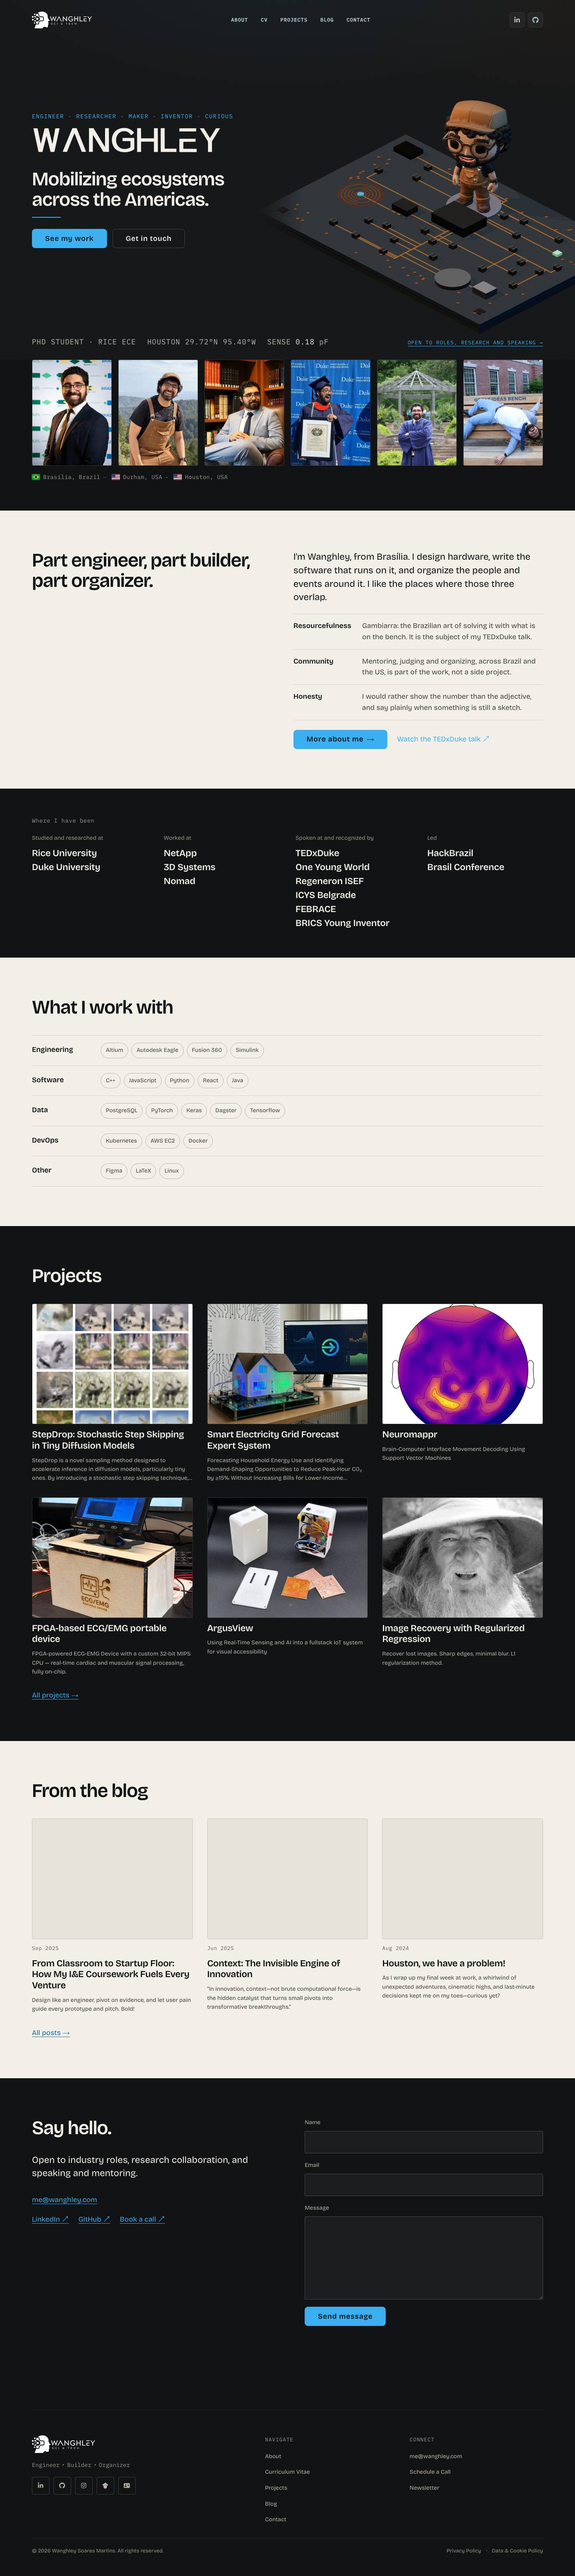
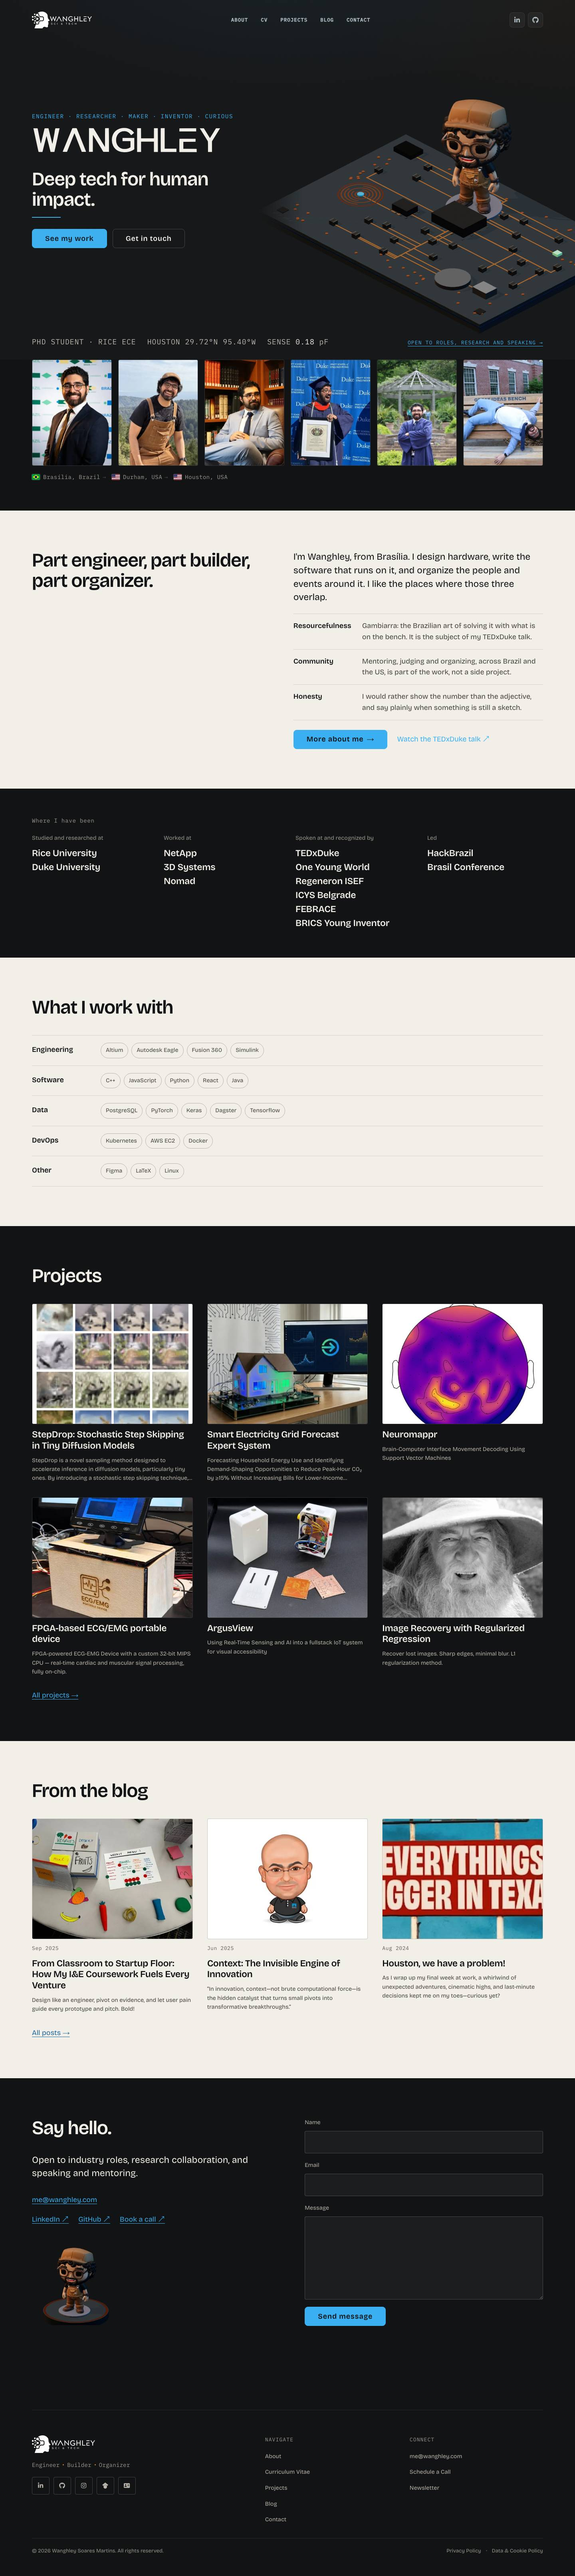
docs: page kit in the styleguide, capture script fixes, Phase 1 record
The styleguide shows every kit piece on a dark and a light band. The
capture script now walks slowly so scroll-reveal content and lazy images
finish, and waits until the page is back at the top, so the fixed navbar
and skip link are not photographed in the wrong place. The home baseline
was re-shot with the slow walk. docs/audit/phase-7.md records the result.

diff --git a/src/pages/styleguide.js b/src/pages/styleguide.js
@@ -1,6 +1,7 @@
 import React from 'react';
 import { Helmet } from 'react-helmet-async';
 import rubrica from '../assets/handwriting/rubrica.png';
+import { PageHeader, SilkRule, SpecTable, Prose, BenchCard, BenchCards } from '../components/bench';
 import './css/styleguide.css';
 
 const COLORS = [
@@ -184,6 +185,79 @@ export default function Styleguide() {
           <li>--stagger 48ms · Nothing bounces except the Funko</li>
           <li>Reduced motion: animations off globally, and each set piece gets a designed still</li>
         </ul>
+      </section>
+
+      <section className="sg__section bench-col" aria-labelledby="sg-kit">
+        <h2 id="sg-kit" className="sg__h2">5. Page kit</h2>
+        <p className="sg__note">
+          Shared by the home page and every inner page (components/bench, styles in bench-page.css). Dark band first,
+          then the same parts on a light band. The silkscreen designator sits on a hairline, away from the heading, so
+          it reads as a marking on the board and not as a label above the title.
+        </p>
+      </section>
+
+      <section className="bp-sec" aria-labelledby="sg-kit-head">
+        <div className="bench-col">
+          <PageHeader
+            as="h3"
+            refdes="U2"
+            title="Page header"
+            lede="A title, one sentence on what the page is for, and a mono line for the facts."
+            meta={['12 items', 'Updated Oct 2026']}
+          />
+          <h3 id="sg-kit-head" className="sg__h3">Spec table (mono values) and cards</h3>
+          <SpecTable
+            data
+            rows={[
+              { label: 'Category', value: 'Hardware' },
+              { label: 'Dates', value: 'Jan 2025 – Mar 2025' },
+              { label: 'Links', value: <a className="bp-link" href="#sg-kit">Source on GitHub</a> },
+            ]}
+          />
+          <div className="sg__stack">
+            <BenchCards>
+              <BenchCard href="#sg-kit" meta="Mar 2025" title="A card with an image tile left blank" text="One or two sentences of teaser, clamped to three lines so a row of cards stays even." />
+              <BenchCard href="#sg-kit" meta="Feb 2025" title="A longer card title that wraps onto a second line" text="Titles are set at the step-1 size with a tight tracking and link in the band's text colour." />
+              <BenchCard href="#sg-kit" meta="Jan 2025" title="Third card" />
+            </BenchCards>
+          </div>
+        </div>
+      </section>
+
+      <section className="bp-sec bp-sec--light" aria-labelledby="sg-kit-prose">
+        <div className="bench-col">
+          <SilkRule refdes="J1" />
+          <h3 id="sg-kit-prose" className="bp-sec__title">Prose on a light band</h3>
+          <Prose>
+            <p>
+              Body text sits in a 68-character column at a 1.7 line height, so a long paragraph stays easy to follow
+              from one line to the next. A <a href="#sg-kit">link</a> keeps its underline, and a footnote marker
+              <sup><a href="#sg-note">1</a></sup> turns copper.
+            </p>
+            <h2>A heading inside prose</h2>
+            <p>There is more space above a heading than below it, and headings balance their own line breaks.</p>
+            <ul>
+              <li>Lists keep a visible marker in the muted tone.</li>
+              <li>Inline <code>code</code> sits on the band's surface colour.</li>
+            </ul>
+            <blockquote>
+              <p>Quotes get a one-pixel rule, never a thick coloured edge.</p>
+            </blockquote>
+            <pre><code>{`.bp-prose > * + * { margin-top: 1.1em; }`}</code></pre>
+            <table>
+              <thead>
+                <tr><th>Pair</th><th>Contrast</th></tr>
+              </thead>
+              <tbody>
+                <tr><td>paper on ink</td><td>16.7:1</td></tr>
+                <tr><td>signal on ink</td><td>7.5:1</td></tr>
+                <tr><td>copper on ink</td><td>6.5:1</td></tr>
+                <tr><td>muted on ink</td><td>6.4:1</td></tr>
+              </tbody>
+            </table>
+            <p id="sg-note"><sup>1</sup> Numerals in tables use tabular figures so columns line up.</p>
+          </Prose>
+        </div>
       </section>
     </main>
   );

diff --git a/scripts/capture-routes.js b/scripts/capture-routes.js
@@ -73,8 +73,15 @@ const sleep = (ms) => new Promise((r) => setTimeout(r, ms));
       for (let y = 0; y < H; y += Math.round(h * 0.6)) { await page.evaluate((v) => scrollTo(0, v), y); await page.waitForTimeout(300); }
       await page.evaluate((v) => scrollTo(0, v), H);
       await page.waitForTimeout(1000);
-      await page.evaluate(() => scrollTo(0, 0));
-      await page.waitForTimeout(1000);
+      // The site eases scrolling, so wait until the page has really landed at the
+      // top. A full-page shot taken at any other offset puts fixed elements (the
+      // navbar, the skip link) in the wrong place.
+      for (let i = 0; i < 20 && (await page.evaluate(() => scrollY)) !== 0; i++) {
+        await page.evaluate(() => scrollTo(0, 0));
+        await page.waitForTimeout(250);
+      }
+      await page.waitForTimeout(800);
+      if ((await page.evaluate(() => scrollY)) !== 0) console.log(`WARN ${name} ${w}px is not at the top; fixed elements will be misplaced`);
       const overflow = await page.evaluate(() => document.documentElement.scrollWidth - innerWidth);
       const pending = await page.evaluate(() =>
         [...document.querySelectorAll('body *')].some((el) => !el.children.length && /^loading[.…]*$/i.test(el.textContent.trim()))

diff --git a/src/pages/css/styleguide.css b/src/pages/css/styleguide.css
@@ -49,3 +49,4 @@
 .sg__facts dt { color: var(--muted); font-size: var(--step--1); }
 .sg__rubrica { width: min(260px, 100%); height: auto; margin: 16px 0; }
 .sg__tokens { display: grid; gap: 10px; }
+.sg__stack { margin-top: 40px; }

diff --git a/docs/audit/phase-7.md b/docs/audit/phase-7.md
@@ -17,7 +17,9 @@ Project default test-account filter; the owner's own visits may still be in thes
 | `/contact` | 7 | 13 | 33% |
 
 Referrers (visitors): direct 77, google.com 22, pratt.duke.edu 22, linkedin.com 15, github.com 3.
-The home sections after the hero send no analytics events.
+Home already sends `home_hero_cta_clicked`, `home_hero_contact_clicked` and `contact_form_submitted`.
+Nothing is sent for project or blog card clicks, the About and TEDx links, the contact links, or
+contact form errors.
 
 ## Build baseline (`yarn build`, gzipped)
 
@@ -66,3 +68,33 @@ only what `pages/about.js` and `pages/contact.js` use.
   `/data-policy` and the 404. On home, styleguide and the two list pages they stay under about
   2,100 pixels (0.05%), which is the animated hero readout and the floating backgrounds.
   Nothing moved, so the deleted CSS was not holding anything up.
+
+## Phase 1 result: the shared page kit
+
+`src/components/css/bench-page.css` and `src/components/bench/` hold the pieces the inner pages
+will reuse: `SilkLabel` and `SilkRule`, `PageHeader`, `SpecTable`, `Prose`, and `BenchCard` with
+`BenchCards`. The band, title, link and card rules came out of `home/css/Sections.css` and were
+renamed `hm-*` to `bp-*`; the home About values are now a `SpecTable` and the project and blog
+cards are `BenchCard`s. `Sections.css` keeps only what is specific to the home page.
+
+- **Home is unchanged.** The original code was re-shot with the slow scroll and compared with the
+  kit version at 375, 768 and 1440: page heights match and every pixel below the hero is identical.
+  The hero differs only where it animates. (The Phase 0 home baseline was refreshed for this.)
+- **Navbar:** the light theme is gone. The bar is graphite on every page and transparent only on the
+  home hero. 56 lines of CSS and the colour-logo import were removed. CV, privacy, legal and the 404
+  now show a graphite bar over a light page until those pages are rebuilt.
+- **A bug the first render caught:** `global.css` sets the colour, size and line-height of every
+  bare `<p>`, plus heading sizes, an inline-code border and the `hr` look. Those beat the values
+  `Prose` set on its container, so paragraphs on a light band came out at about 1.8:1. `Prose` now
+  takes each element back. All 22 measured contrast checks on `/styleguide` pass (paragraph text
+  8.7:1, links 5.3:1, silkscreen label 5.5:1 on light and 6.4:1 on dark), and the paragraph
+  line-height is the designed 1.70.
+- **Silkscreen labels** are drawn as a designator at the end of a hairline, not as a label stacked
+  over the heading, and carry only the designator (`U2`), not `U2 · PROJECTS`.
+- **Build:** `main.js` 117.19 to 117.61 kB (+0.42), `main.css` 15.41 to 16.05 kB (+0.64). No lint
+  warnings. `scripts/e2e-home.js`: 48 of 48 pass.
+- **Capture script:** it now also waits until `scrollY` is 0 before shooting, because a full-page
+  shot taken at any other offset puts the fixed navbar and the skip link in the wrong place.
+- The "empty tile" cards in the Phase 6 screenshots were lazy images that had not loaded yet, not
+  a site bug.
+- Baselines for the pages rebuilt in Phases 2 and 3 are re-shot just before each is touched.
